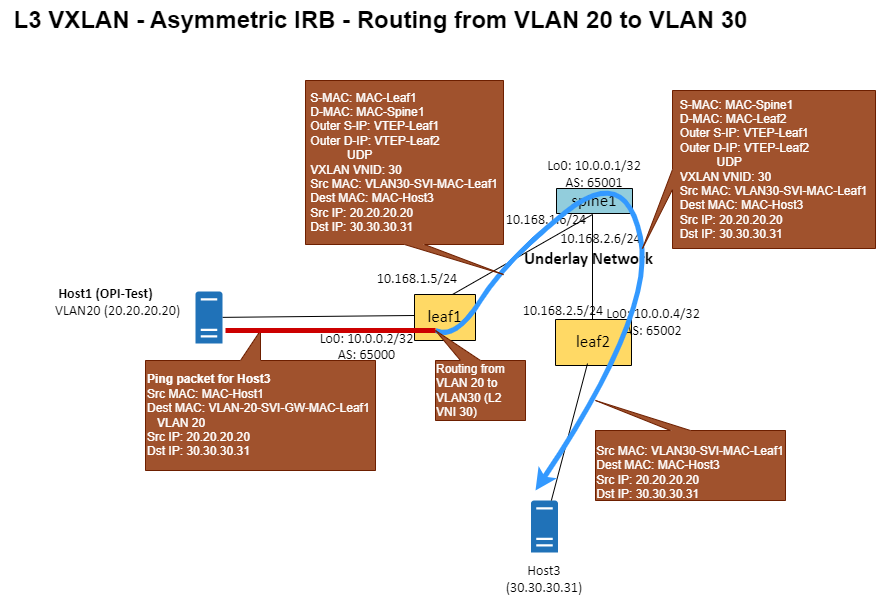
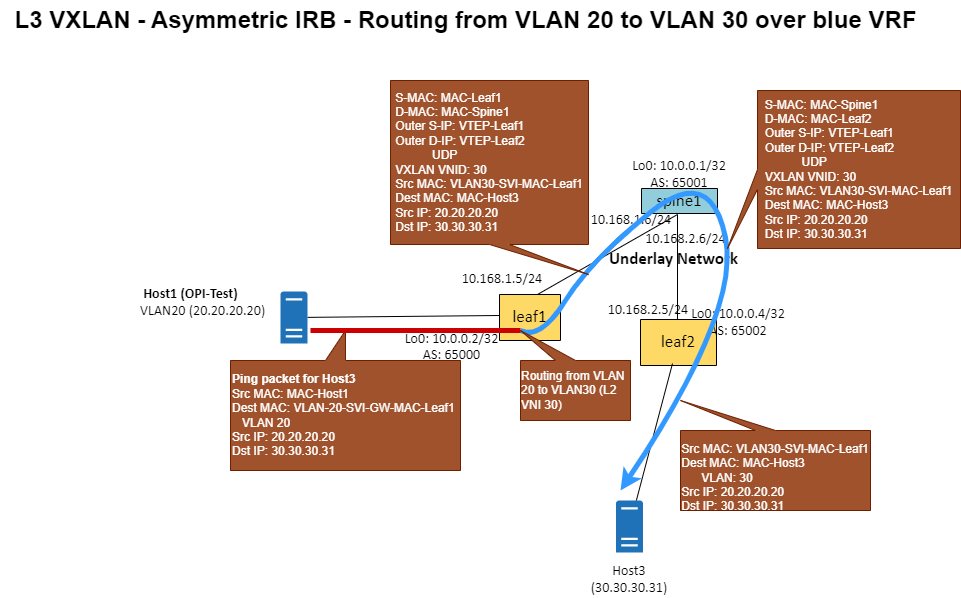
ci: updated the diagrams for new configuration changes

Changed region(s): [[0.0616, 0.1204, 1.0, 0.9933], [0.0308, 0.0, 0.9555, 0.0602]]

diff --git a/README.md b/README.md
@@ -54,3 +54,5 @@ docker-compose exec opi-evpn-bridge grpcurl -plaintext -d '{"name" : "//network.
 ![OPI EVPN Bridge Diagram for L2VXLAN](./OPI-EVPN-L2-VXLAN.png)
 ![OPI EVPN Bridge Diagram for L3VXLAN Asymmetric IRB](./OPI-EVPN-L3-Asymmetric-IRB.png)
 ![OPI EVPN Bridge Diagram for L3VXLAN Symmetric IRB](./OPI-EVPN-L3-Symmetric-IRB.png)
+![OPI EVPN Bridge Diagram for L2VXLAN in_Symmetric IRB](./OPI-EVPN-L2-VXLAN-In-Symmetric-IRB-setup.png)
+![OPI EVPN Bridge Diagram for Leaf1_Detailed_View](./OPI-EVPN-Leaf1-Detailed-View.png)
